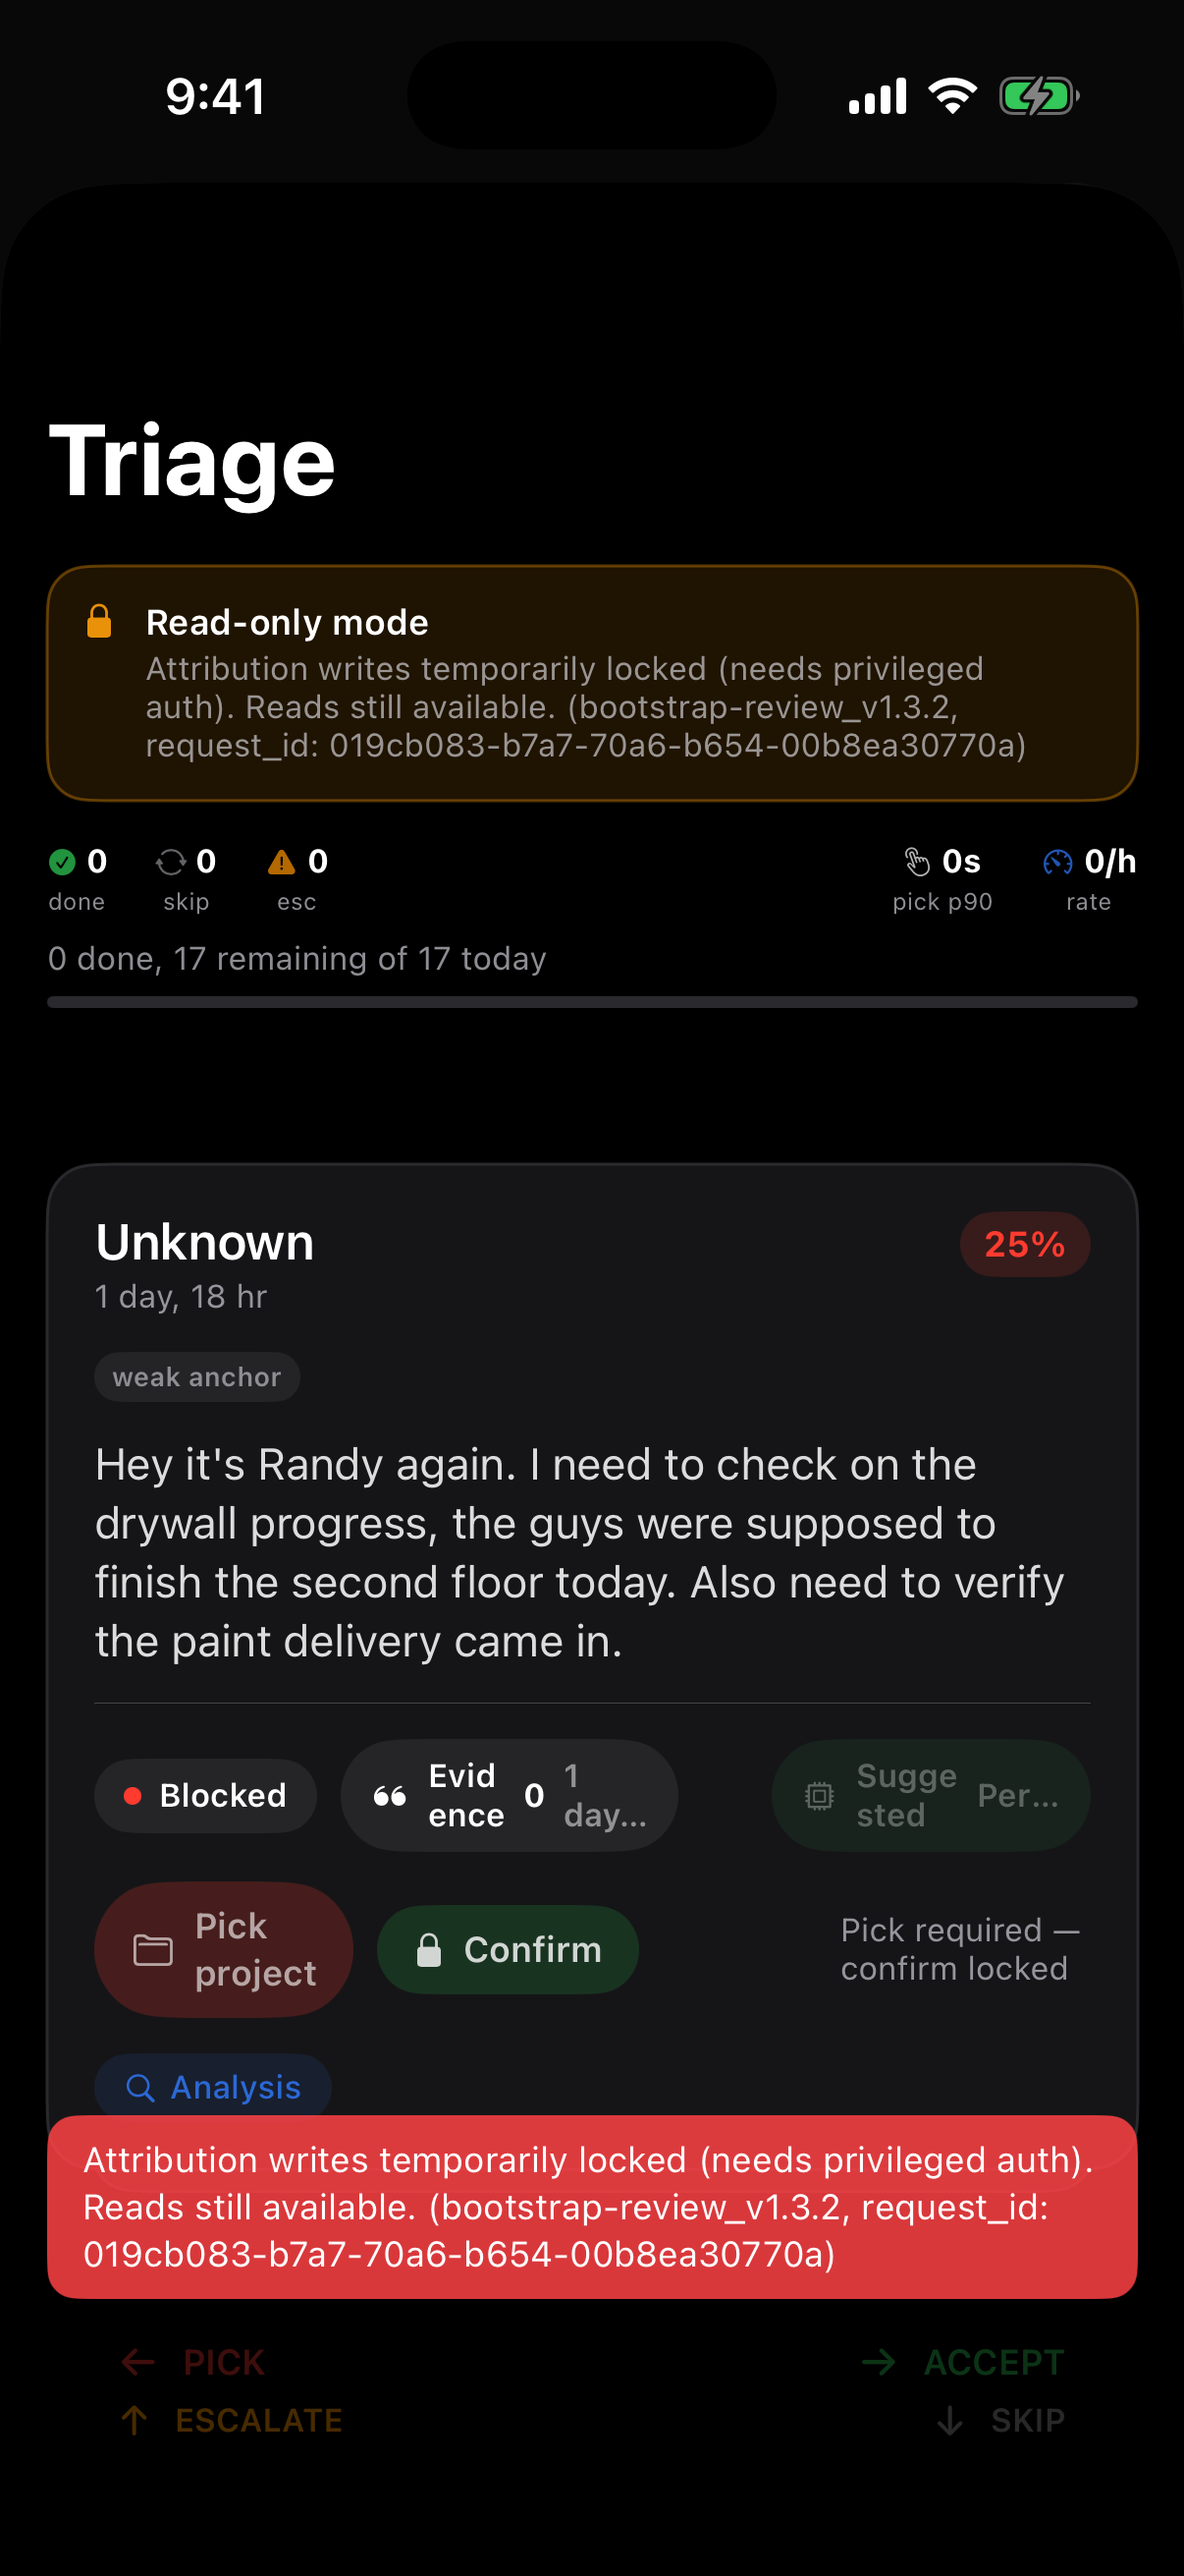
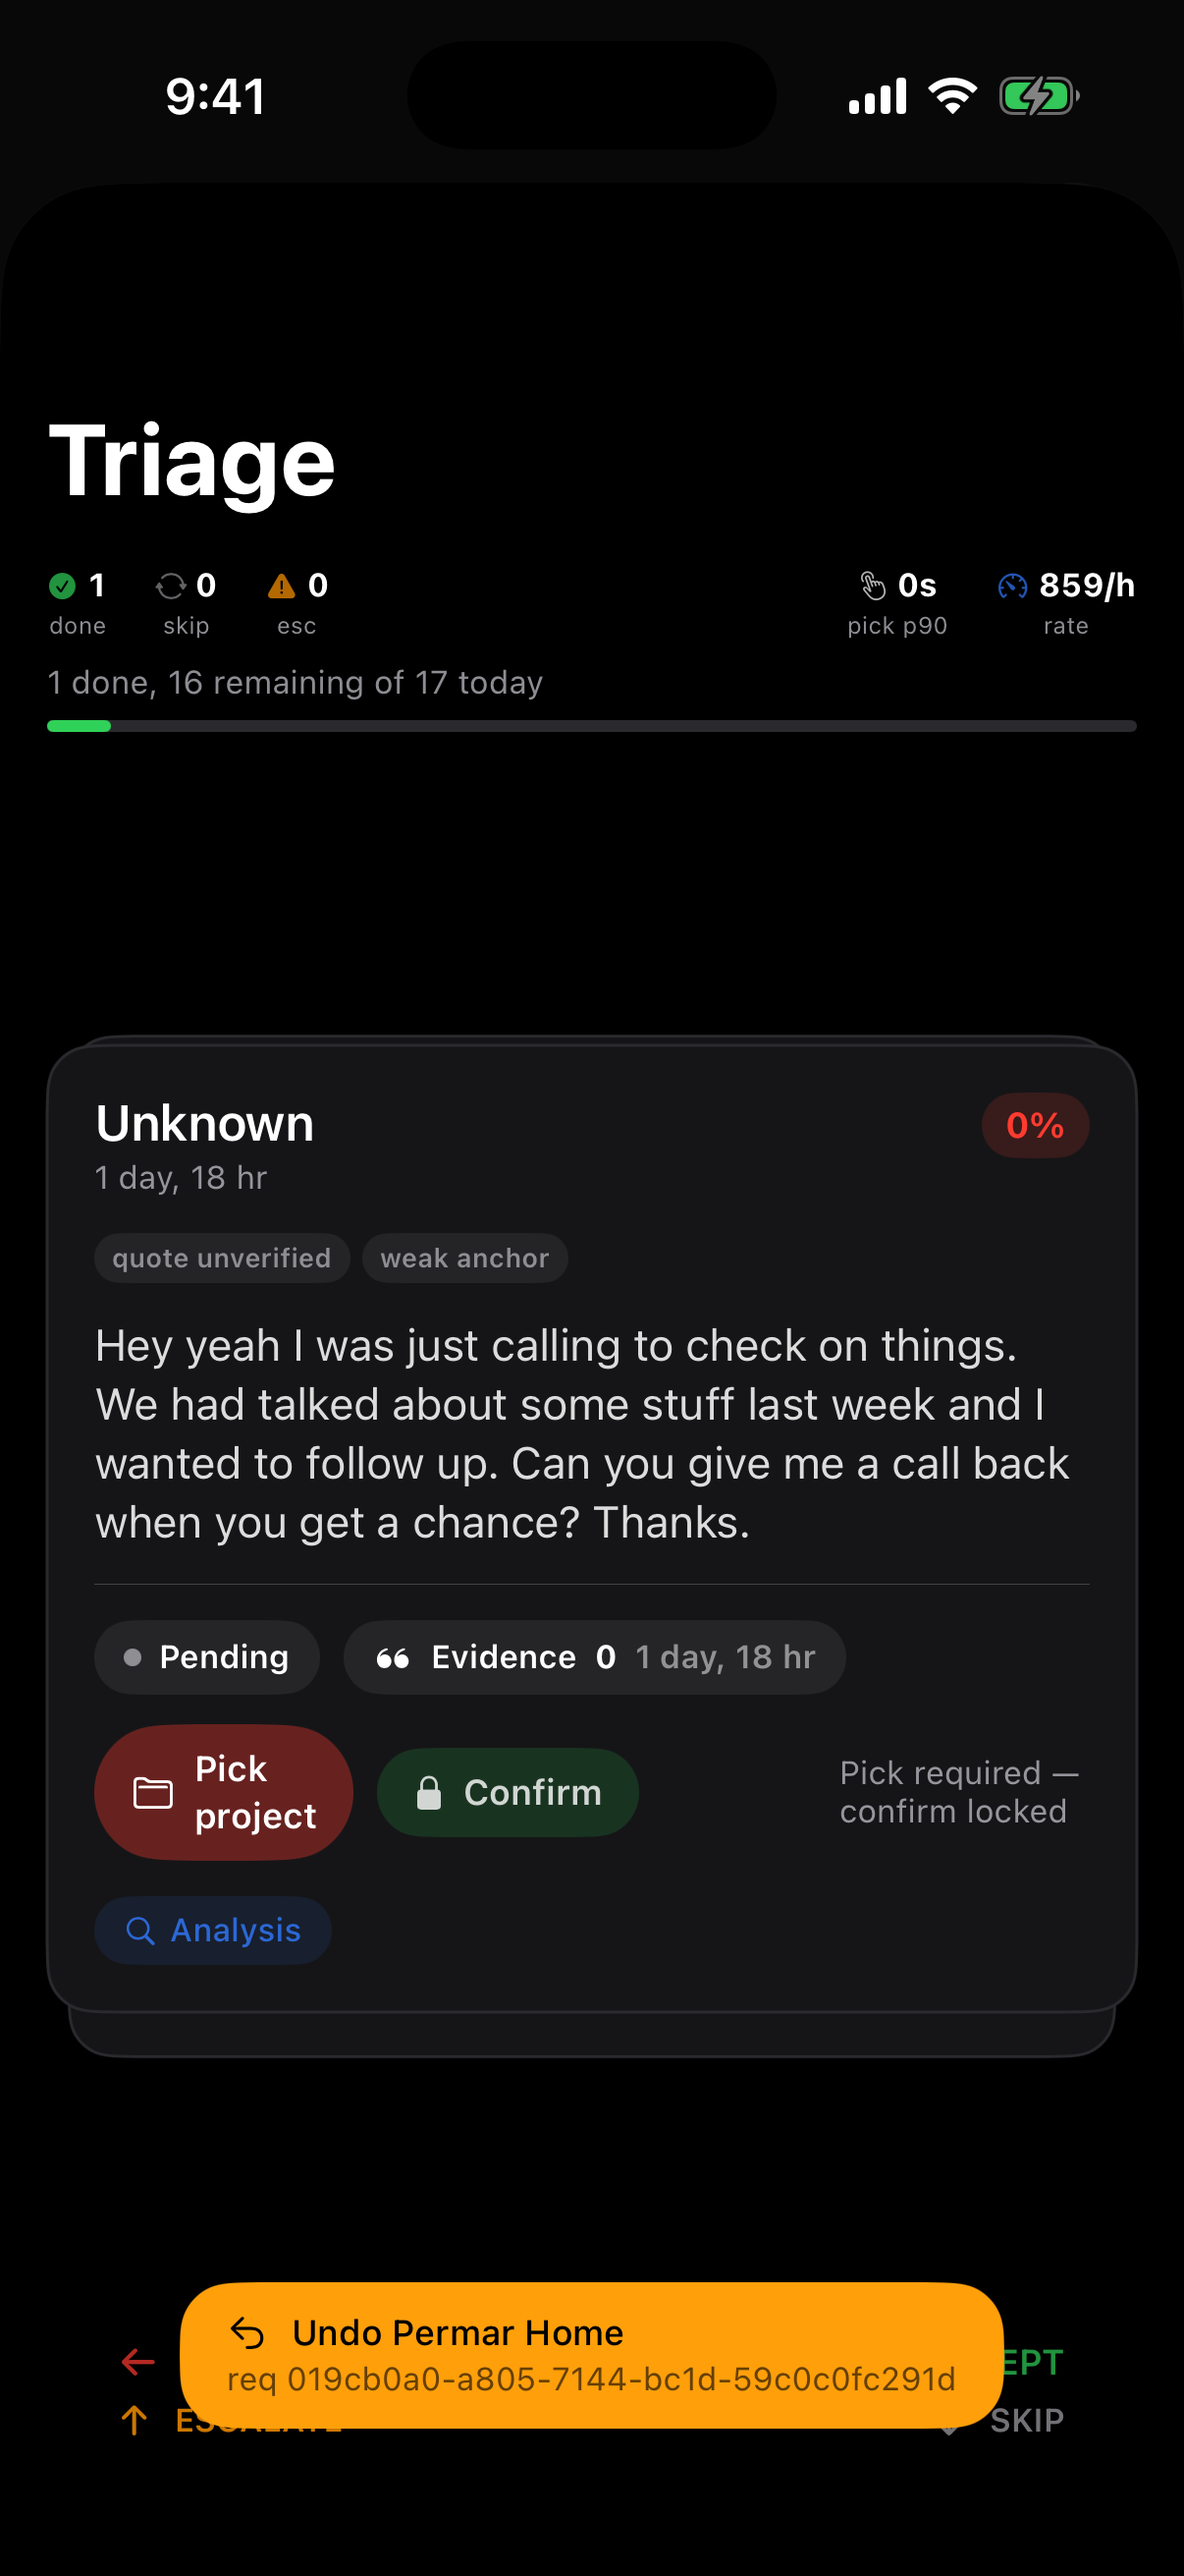
iOS smoke: pass edge secret + update proof

diff --git a/docs/proofs/ios/2026-03-02/picker_first_truth_surface_proof_2026-03-02.md b/docs/proofs/ios/2026-03-02/picker_first_truth_surface_proof_2026-03-02.md
@@ -1,6 +1,6 @@
 # iOS picker-first truth surface proof (2026-03-02)
 
-Goal: prove the attribution triage “truth-forcing” surface is picker-first (no silent anchoring), is informative (evidence + reasons visible), and is feedback-affordant (clear blocked/ready/pending states + write-lock request IDs).
+Goal: prove the attribution triage “truth-forcing” surface is picker-first (no silent anchoring), is informative (evidence + reasons visible), and is feedback-affordant (clear blocked/ready/pending states + request IDs on write actions).
 
 ## How to run
 
@@ -13,16 +13,17 @@ Bundle: `com.heartwoodcustombuilders.CamberRedline`
 - Auto-open Evidence sheet:
   - Launch args: `--smoke-triage-static --smoke-triage-open-evidence`
 
-### 2) Smoke drive (captures write-lock + request_id)
+### 2) Smoke drive (captures successful write + request_id)
 
 - Launch args: `--smoke-drive --smoke-triage-keep-undo`
-- Expected marker:
-  - `SMOKE_EVENT TRIAGE_WRITE_LOCKED ... request_id: <id>`
+- Required env (simulator launch): `EDGE_SHARED_SECRET` (injected via `SIMCTL_CHILD_EDGE_SHARED_SECRET`)
+- Expected markers:
+  - `SMOKE_EVENT TRIAGE_ACTION ... request_id=<id>`
+  - `SMOKE_EVENT TRIAGE_UNDO_AVAILABLE ...` (keeps Undo banner visible for screenshot)
 
 ## Artifacts
 
 - `picker_first_no_preselect_confirm_locked.png`: picker-first gating (no preselect; confirm remains locked until a user explicitly picks a project).
 - `picker_first_evidence_sheet.png`: Evidence chip opens the Evidence sheet (anchors/reasons surfaced).
-- `picker_first_undo_requestid_p90.png`: activity rail shows `pick p90`; writes-locked banner includes `function_version` + `request_id`.
-- `picker_first_smoke_markers_20260302T214541Z.log`: smoke markers for the run (includes `TRIAGE_WRITE_LOCKED` + `request_id`).
-
+- `picker_first_undo_requestid_p90.png`: activity rail shows `pick p90`; Undo toast includes `req <request_id>`.
+- `picker_first_smoke_markers_20260302T221719Z.log`: smoke markers for the run (includes `TRIAGE_ACTION ... request_id=<id>`).
